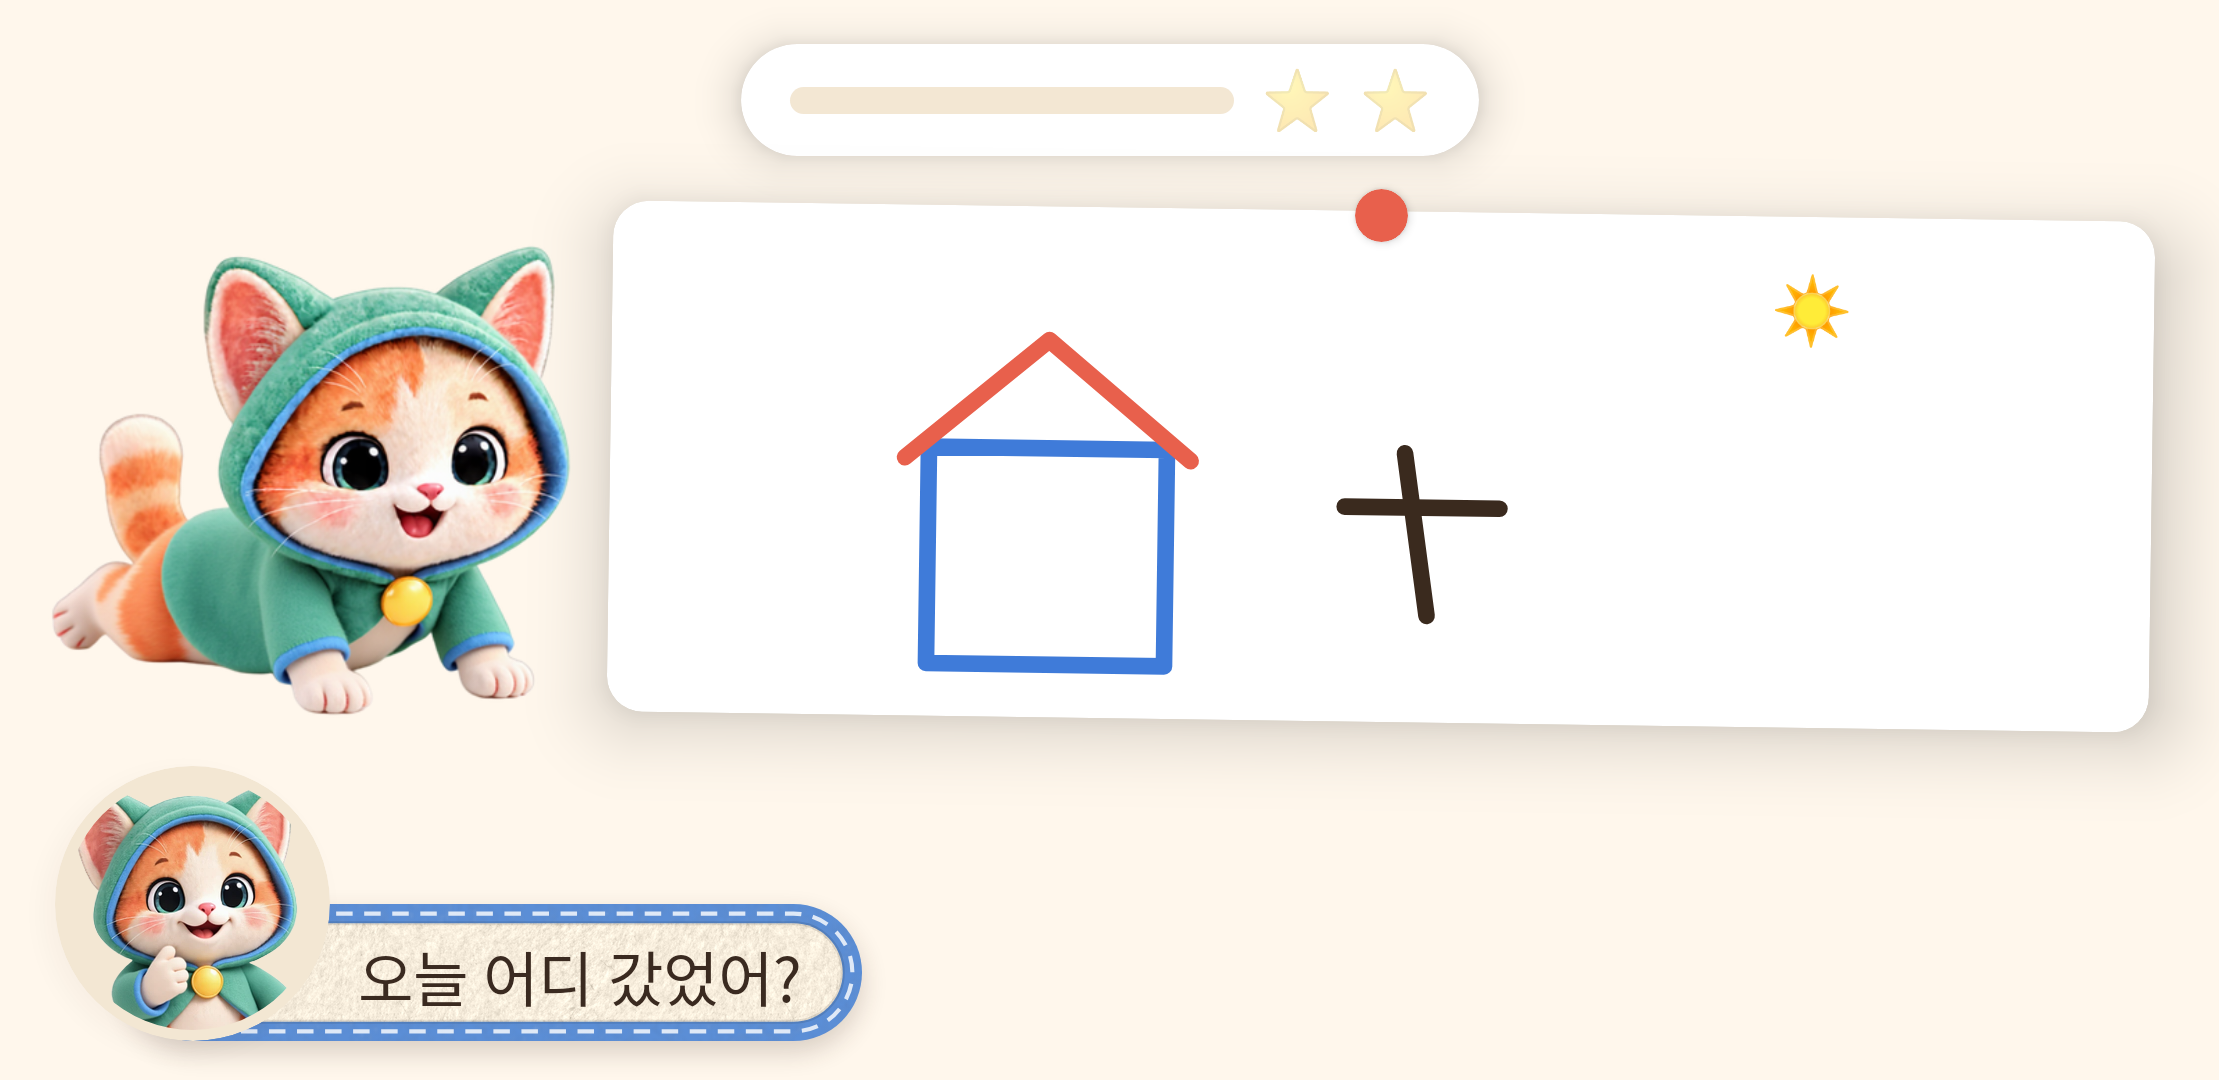
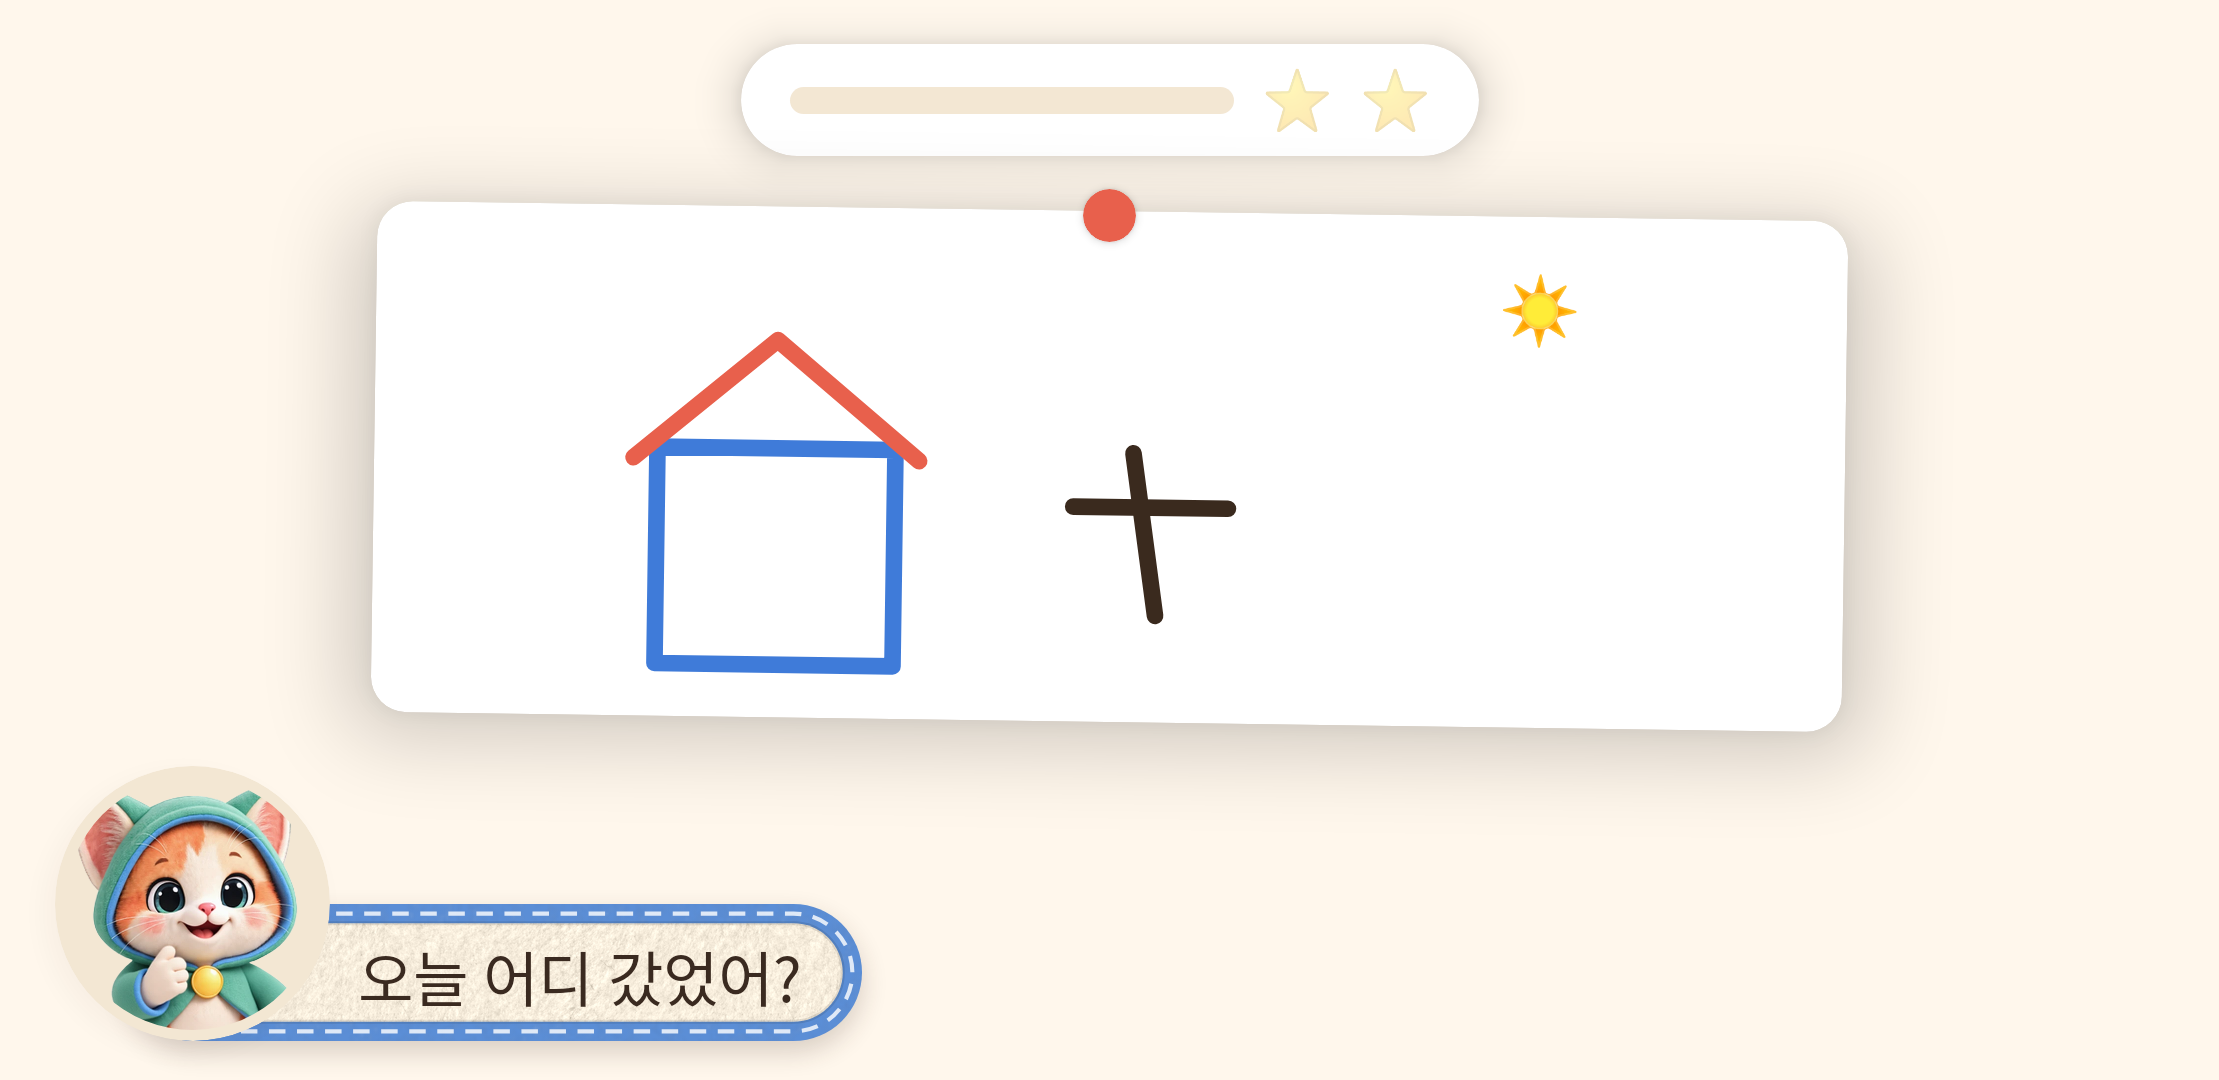
fix(diary): one Otto after drawing too — the lying Otto beside the pinned card is gone, the speech-line face asks; a day without drawing pins the felt picture of the place instead of leaving the middle empty
Claude-Session: https://claude.ai/code/session_014T8D9DMqBWvFNzrUFjutEA

diff --git a/android/app/src/main/java/com/example/finalproject_demo/ui/DiaryViews.kt b/android/app/src/main/java/com/example/finalproject_demo/ui/DiaryViews.kt
@@ -578,12 +578,11 @@ private fun DrawScope.drawBoardStroke(s: DrawStroke, crop: BoardBox) {
 
 // ── D3 다 그린 뒤 묻기 ──────────────────────────────────────────
 
-/** 엎드린 오또 — 물을 때는 고개 들고 아이를 보고, 아이가 말하는 동안은 공책에 받아 적는다 */
-internal fun diaryAskPose(listening: Boolean): Pose = if (listening) Pose.LIE_WRITE else Pose.LIE_LOOK
 
 /**
- * 다 그린 뒤 빈 칸 묻기 — 위 가운데 별 둘(필수 두 칸), 왼쪽 엎드린 오또, 오른쪽 아이 그림을 꽂은 카드(둘이 같은 높이).
- * 묻는 말은 아래 대사 칸이 맡는다. 그림 없는 날에는 빈 카드를 세우지 않는다.
+ * 다 그린 뒤 빈 칸 묻기 — 위 가운데 별 둘(필수 두 칸), 가운데 아이 그림을 꽂은 카드. 묻는 말은 아래 대사 칸(오또 얼굴)이 맡는다.
+ * 오또는 대사 칸 얼굴 하나만 — 엎드린 오또까지 두면 한 화면에 둘이었다 (10-05 진웅 · D0 와 같이).
+ * 그림 없는 날의 카드는 아이가 말한 곳의 펠트 그림(아직 모르면 어디라고 말하지 않는 저녁 들판) — 그림일기 한 장과 같다.
  */
 @Composable
 private fun DiaryAskView(d: Director, cq: Dp) {
@@ -594,13 +593,8 @@ private fun DiaryAskView(d: Director, cq: Dp) {
     Box(Modifier.fillMaxSize()) {
         TwoStars(PICTURE_REQUIRED.count { !s.slots[it].isNullOrBlank() }, cq, Modifier.align(Alignment.TopCenter).padding(top = cq * 2))
         Row(
-            Modifier.fillMaxWidth().padding(start = cq * 2, end = cq * 3, top = cq * 8.5f).height(cq * 24),
-            // 그림 없는 날은 오또 혼자 — 구석이 아니라 가운데에서 묻는다
-            horizontalArrangement = if (pieces.isEmpty()) Arrangement.Center else Arrangement.Start,
+            Modifier.fillMaxWidth().padding(start = TopBarRight, end = TopBarRight, top = cq * 8.5f).height(cq * 24),
         ) {
-            Otto(diaryAskPose(s.micOn), Modifier.fillMaxHeight().testTag("d3-otto"))
-            if (pieces.isEmpty()) return@Row
-            Spacer(Modifier.width(cq * 1.5f))
             Box(Modifier.weight(1f).fillMaxHeight()) {
                 BoxWithConstraints(
                     Modifier.fillMaxSize().padding(top = cq)
@@ -610,9 +604,13 @@ private fun DiaryAskView(d: Director, cq: Dp) {
                         .padding(cq * 1.4f)
                         .testTag("d3-card")
                 ) {
-                    // 그린 부분만 카드 비율로 잘라 꽉 채운다 — 화이트보드의 빈 곳은 버린다
-                    val crop = cropFor(pieces.flatMap { it.strokes }, s.drawingAspect.takeIf { it > 0f } ?: 1f, ratio = maxWidth / maxHeight)
-                    pieces.forEach { p -> PieceLayer(p, crop, null, 1f, maxWidth.value, maxHeight.value) }
+                    if (pieces.isEmpty()) {
+                        AssetImage(diaryPlaceBg(s.slots["place"]), Modifier.fillMaxSize().testTag("d3-place"), contentScale = ContentScale.Crop)
+                    } else {
+                        // 그린 부분만 카드 비율로 잘라 꽉 채운다 — 화이트보드의 빈 곳은 버린다
+                        val crop = cropFor(pieces.flatMap { it.strokes }, s.drawingAspect.takeIf { it > 0f } ?: 1f, ratio = maxWidth / maxHeight)
+                        pieces.forEach { p -> PieceLayer(p, crop, null, 1f, maxWidth.value, maxHeight.value) }
+                    }
                 }
                 Box(Modifier.align(Alignment.TopCenter).size(cq * 2.4f).shadow(2.dp, CircleShape).background(FeltCoral, CircleShape))
             }

diff --git a/android/app/src/test/java/com/example/finalproject_demo/DiaryViewsTest.kt b/android/app/src/test/java/com/example/finalproject_demo/DiaryViewsTest.kt
@@ -42,7 +42,6 @@ import com.example.finalproject_demo.demo.diaryDay
 import com.example.finalproject_demo.demo.newDiaryDay
 import com.example.finalproject_demo.ui.Bg
 import com.example.finalproject_demo.ui.StageView
-import com.example.finalproject_demo.ui.diaryAskPose
 import com.example.finalproject_demo.ui.shell.Pose
 import com.github.takahirom.roborazzi.captureRoboImage
 import kotlinx.coroutines.CoroutineScope
@@ -288,9 +287,9 @@ class DiaryViewsTest {
         assertEquals(2, d.s.drawing.size)
     }
 
-    /** D3 — 다 그린 뒤: 엎드린 오또 옆에 아이 그림을 꽂아 두고 아래 대사 칸으로 묻는다 (docs/review/일기모드_0930 A) */
+    /** D3 — 다 그린 뒤: 아이 그림을 꽂아 두고 아래 대사 칸으로 묻는다. 오또는 대사 칸 얼굴 하나만 (10-05 진웅) */
     @Test
-    fun afterDrawingOttoLiesBesideThePinnedDrawing() {
+    fun afterDrawingTheDrawingIsPinnedAndOttoAsksFromTheSpeechLine() {
         val d = director()
         drawDay(d)
         d.s.diaryDay.pieces[2] = d.s.diaryDay.pieces[2].copy(look = PieceLook.OTTO)
@@ -298,27 +297,22 @@ class DiaryViewsTest {
         d.s.stage = DiaryAsk
         d.say("오늘 어디 갔었어?")
         show(d)
-        compose.onNodeWithTag("d3-otto").assertExists()
+        compose.onNodeWithTag("d3-otto").assertDoesNotExist()
         compose.onNodeWithTag("d3-card").assertExists()
         snap("diary_ask")
     }
 
+    /** 그림 없는 날 — 빈 카드가 아니라 아이가 말한 곳의 펠트 그림 */
     @Test
-    fun aDayWithoutDrawingHasNoEmptyCard() {
+    fun aDayWithoutDrawingPinsThePlace() {
         val d = director()
         d.s.newDiaryDay()
         d.s.stage = DiaryAsk
         d.say("오늘 어디 갔었어?")
         show(d)
-        compose.onNodeWithTag("d3-otto").assertExists()
-        compose.onNodeWithTag("d3-card").assertDoesNotExist()
+        compose.onNodeWithTag("d3-otto").assertDoesNotExist()
+        compose.onNodeWithTag("d3-place").assertExists()
         snap("diary_ask_no_drawing")
-    }
-
-    @Test
-    fun ottoLooksUpWhileAskingAndWritesWhileListening() {
-        assertEquals(Pose.LIE_LOOK, diaryAskPose(listening = false))
-        assertEquals(Pose.LIE_WRITE, diaryAskPose(listening = true))
     }
 
     @Test
